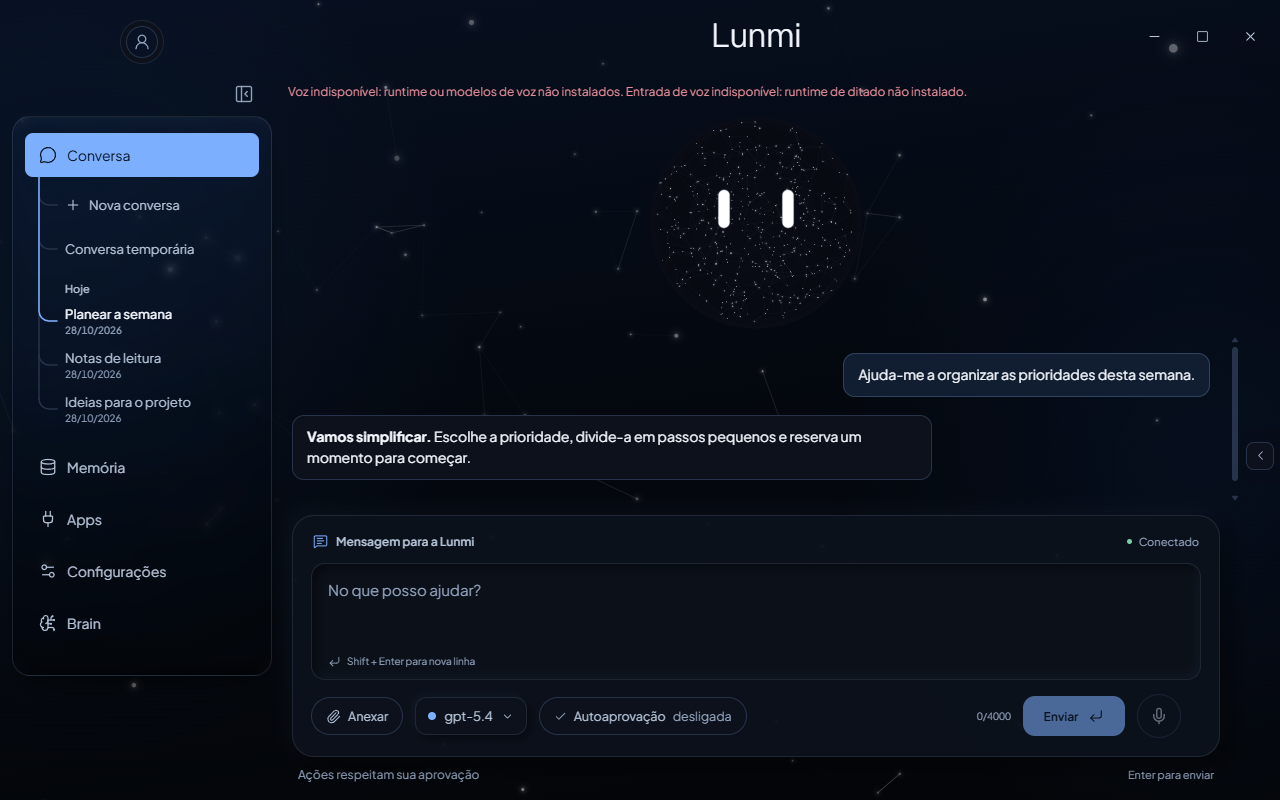
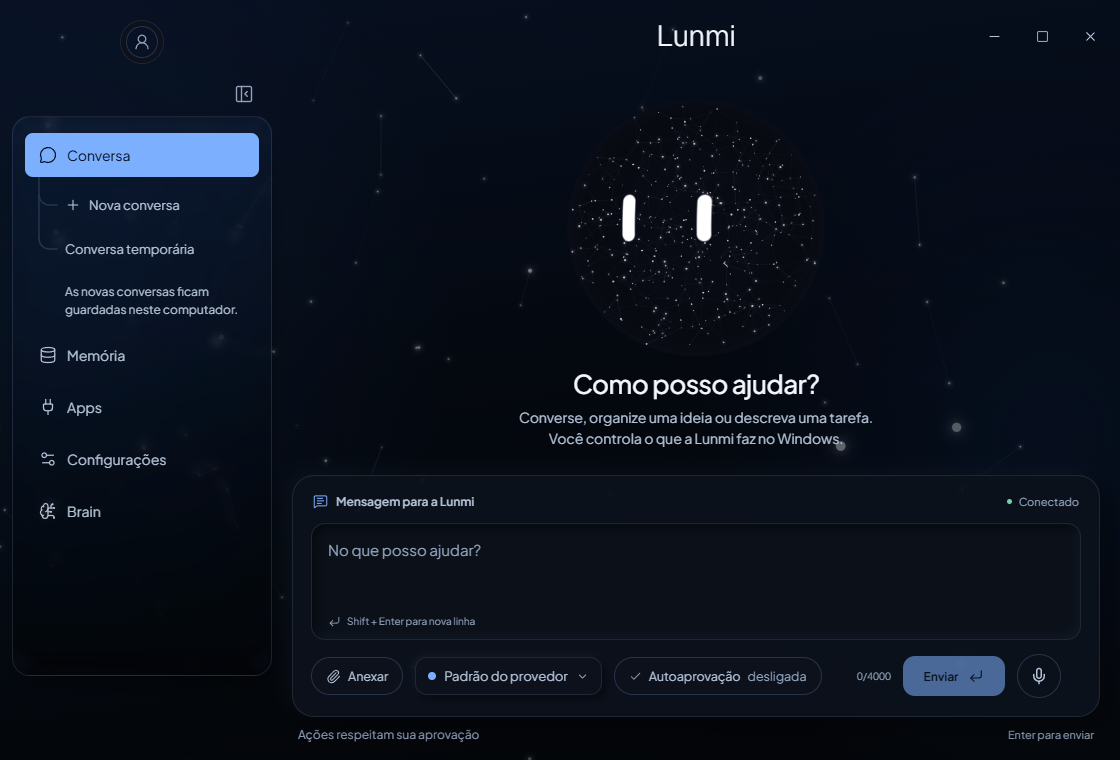
Document Alpha 5 download and refresh installed app screenshot

diff --git a/README.md b/README.md
@@ -13,25 +13,25 @@ Um assistente de desktop com interface Electron, backend Python e automação as
 [![Electron](https://img.shields.io/badge/Electron-React%20%2B%20TypeScript-242938?style=flat-square&logo=electron&logoColor=white)](desktop/)
 [![Checks](https://github.com/MateusCosta888/Lunmi/actions/workflows/checks.yml/badge.svg)](https://github.com/MateusCosta888/Lunmi/actions/workflows/checks.yml)
 
-[**Baixar Lunmi Alpha 4 · Windows x64**](https://github.com/MateusCosta888/Lunmi/releases/download/v0.1.0-alpha.4/Lunmi-0.1.0-alpha.4-Setup.exe)
+[**Baixar Lunmi Alpha 5 · Windows x64**](https://github.com/MateusCosta888/Lunmi/releases/download/v0.1.0-alpha.5/Lunmi-0.1.0-alpha.5-Setup.exe)
 
-[Instalar](#instalar-o-alpha-4) · [Executar pelo código](#começar) · [Funcionalidades](#o-que-a-lunmi-faz) · [Arquitetura](docs/ARCHITECTURE.md) · [Privacidade](SECURITY.md) · [Contribuir](CONTRIBUTING.md)
+[Instalar](#instalar-o-alpha-5) · [Executar pelo código](#começar) · [Funcionalidades](#o-que-a-lunmi-faz) · [Arquitetura](docs/ARCHITECTURE.md) · [Privacidade](SECURITY.md) · [Contribuir](CONTRIBUTING.md)
 
 </div>
 
 <p align="center">
-  <img src="docs/assets/lunmi-dark.png" width="1100" alt="Lunmi Alpha 4 no tema Celestial, com conversa de demonstração e histórico na barra lateral" />
+  <img src="docs/assets/lunmi-dark.png" width="1100" alt="Lunmi Alpha 5 instalada no tema Celestial, com o orb e o ecrã inicial da conversa" />
 </p>
 
-> **Alpha 4 disponível para testes.** Inclui atualizações pelo GitHub Releases, com verificação Ed25519 e confirmação antes de reiniciar para instalar. O setup ainda não tem certificado de editor Windows. A automação depende do aplicativo e da verificação disponível. Consulte [a Release](https://github.com/MateusCosta888/Lunmi/releases/tag/v0.1.0-alpha.4) e [os limites de segurança](SECURITY.md).
+> **Alpha 5 disponível para testes.** Inclui voz e ditado offline por CPU e atualizações pelo GitHub Releases, com verificação Ed25519 e confirmação antes de reiniciar para instalar. O setup ainda não tem certificado de editor Windows. A automação depende do aplicativo e da verificação disponível. Consulte [a Release](https://github.com/MateusCosta888/Lunmi/releases/tag/v0.1.0-alpha.5) e [os limites de segurança](SECURITY.md).
 
-## Instalar o Alpha 4
+## Instalar o Alpha 5
 
-1. Baixe o [instalador para Windows 10/11 x64](https://github.com/MateusCosta888/Lunmi/releases/download/v0.1.0-alpha.4/Lunmi-0.1.0-alpha.4-Setup.exe), com cerca de 249 MB.
+1. Baixe o [instalador para Windows 10/11 x64](https://github.com/MateusCosta888/Lunmi/releases/download/v0.1.0-alpha.5/Lunmi-0.1.0-alpha.5-Setup.exe), com cerca de 2,08 GB. Inclui os modelos de voz; a instalação pode demorar vários minutos.
 2. Execute o setup e abra a Lunmi. O Python necessário acompanha o instalador; não precisa instalar Python, Node.js ou Git para usar esta versão.
-3. Em **Brain**, escolha uma API, endpoint ou CLI suportado e configure o seu próprio acesso. Créditos e chaves de IA não estão incluídos. Voz e ditado precisam de recursos opcionais preparados separadamente.
+3. Em **Brain**, escolha uma API, endpoint ou CLI suportado e configure o seu próprio acesso. Créditos e chaves de IA não estão incluídos. O setup inclui voz e ditado por CPU, sem exigir NVIDIA; a ativação continua opcional.
 
-Quem usa o Alpha 3 precisa instalar o Alpha 4 manualmente uma vez. Depois, a Lunmi procura novas versões e baixa em segundo plano, aproveitando blocos existentes quando possível. Em **Configurações → Atualizações**, pode procurar manualmente e escolher **Reiniciar e atualizar** quando estiver pronta. Tarefas e operações de voz ativas bloqueiam a instalação; histórico, memória e configurações continuam fora da pasta instalada.
+Quem usa o Alpha 3 precisa instalar o Alpha 5 manualmente uma vez. Quem tem o Alpha 4 recebe esta versão pelo atualizador; o primeiro download com os modelos será grande. Depois, a Lunmi procura novas versões e baixa em segundo plano, aproveitando blocos existentes quando possível. Em **Configurações → Atualizações**, pode procurar manualmente e escolher **Reiniciar e atualizar** quando estiver pronta. Tarefas e operações de voz ativas bloqueiam a instalação; histórico, memória e configurações continuam fora da pasta instalada.
 
 As atualizações chegam quando publicamos uma **Release**. Um envio de código a `main` executa testes; a distribuição exige preparar e publicar uma versão. O modo `run.bat` continua sem auto-update. [Funcionamento, publicação e recuperação →](docs/UPDATES.md)
 
@@ -51,9 +51,9 @@ As atualizações chegam quando publicamos uma **Release**. Um envio de código 
 | **Controle do usuário** | Confirmações, perguntas, cancelamento e indicação de falhas fazem parte da execução. |
 | **Interface adaptável** | Temas Celestial, Claro suave e Red Velvet, laterais com vidro, navegação recolhível e compositor multilinha com seleção de modelo. |
 | **Lunmi Node** | Ao fechar a principal, pode continuar na bandeja com um Node num canto superior. Abre um mini chat sincronizado e mostra atividade/atenção. Fica passivo durante tarefas para não intercetar cliques. |
-| **Voz e ditado opcionais** | Saída de voz local e microfone acionado pelo utilizador, com runtimes e modelos preparados separadamente. Sem escuta contínua; o chat funciona sem esses recursos. |
+| **Voz e ditado locais** | Recursos de voz e ditado por CPU incluídos no setup completo. Ativação opcional e microfone acionado pelo utilizador; sem escuta contínua. |
 | **GalaxyOrb** | Presença visual persistente na conversa principal, preservada quando chegam mensagens. |
-| **Atualizações pelo GitHub** | No Alpha 4 instalado: download automático, verificação de assinatura e instalação após confirmação de reinício. |
+| **Atualizações pelo GitHub** | A partir do Alpha 4 instalado: download automático, verificação de assinatura e instalação após confirmação de reinício. |
 
 A execução combina caminhos determinísticos para tarefas reconhecidas e agentes UFO² para as demais. Um despacho de ação não prova sucesso: confira o resultado e a evidência apresentados.
 

diff --git a/docs/UPDATES.md b/docs/UPDATES.md
@@ -1,6 +1,6 @@
 # Atualizações da Lunmi
 
-Disponível no pacote instalado Windows x64 com o atualizador. No checkout está desligado. O Alpha 3 precisa de instalar o Alpha 4 manualmente uma vez.
+Disponível no pacote instalado Windows x64 com o atualizador. No checkout está desligado. O Alpha 3 precisa de instalar o Alpha 5 manualmente uma vez. O Alpha 4 já recebe as versões seguintes pelo atualizador.
 
 A Lunmi procura atualizações 30 segundos após abrir e a cada seis horas. Baixa em segundo plano e apresenta **Reiniciar e atualizar** nas configurações. É possível procurar manualmente. Fechar a janela ou sair normalmente não instala nada. Tarefas, confirmações, comandos pendentes, ligações de conta e voz bloqueiam o reinício. Guarda rascunhos e alterações nos formulários antes de confirmar.
 
